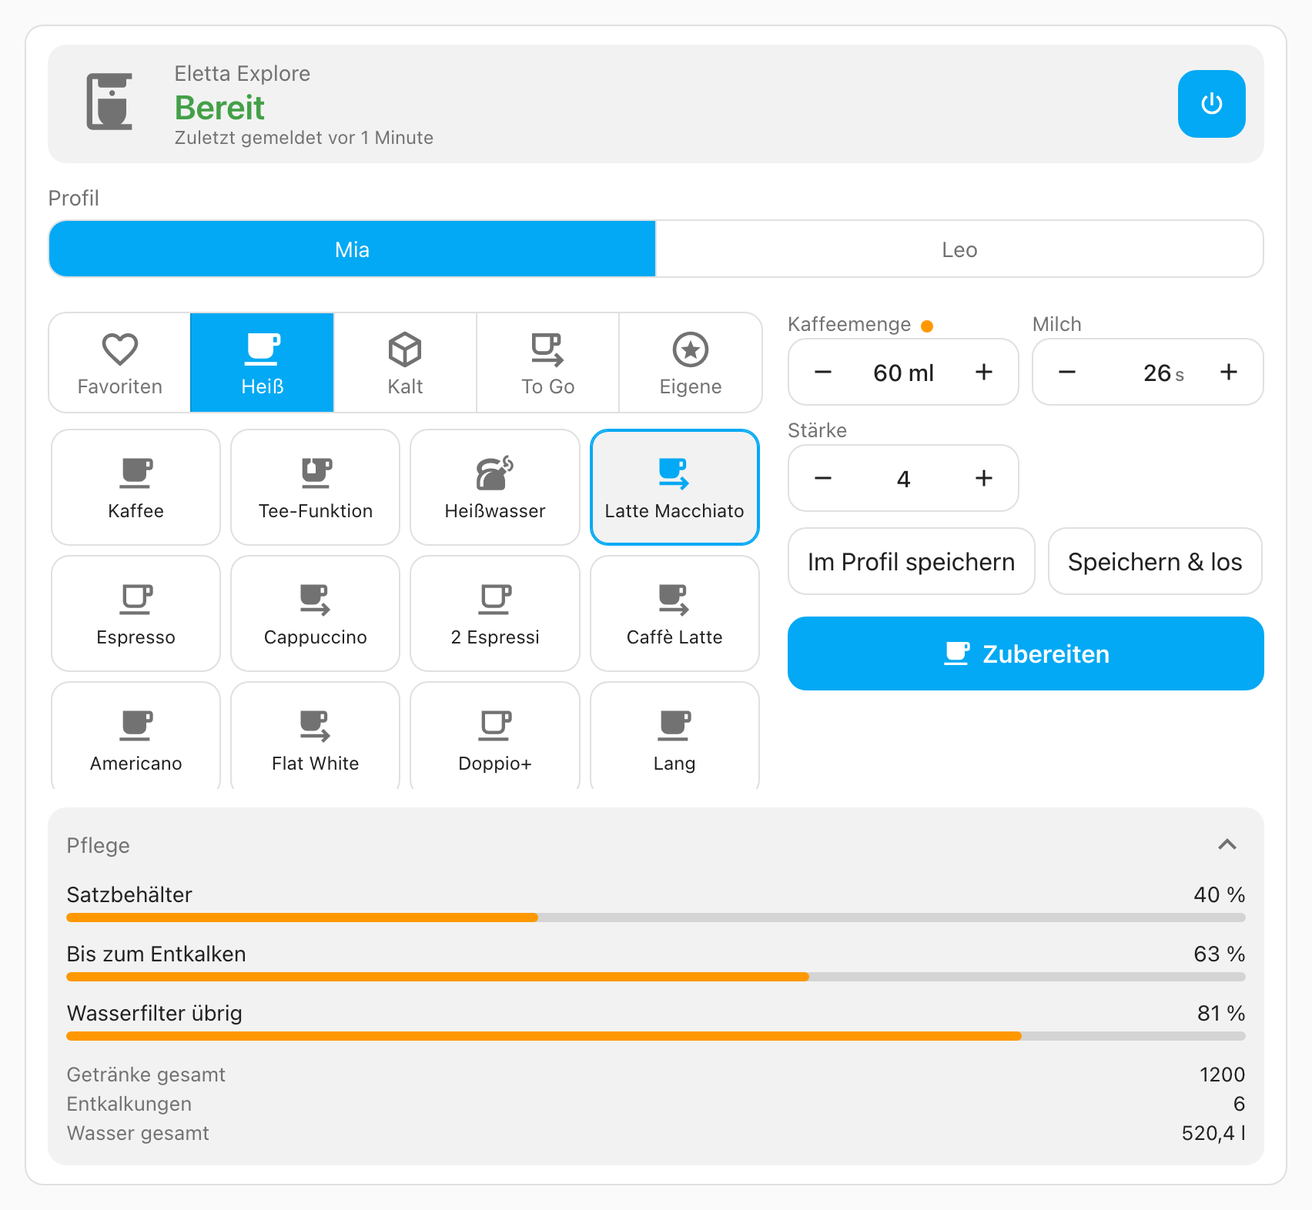
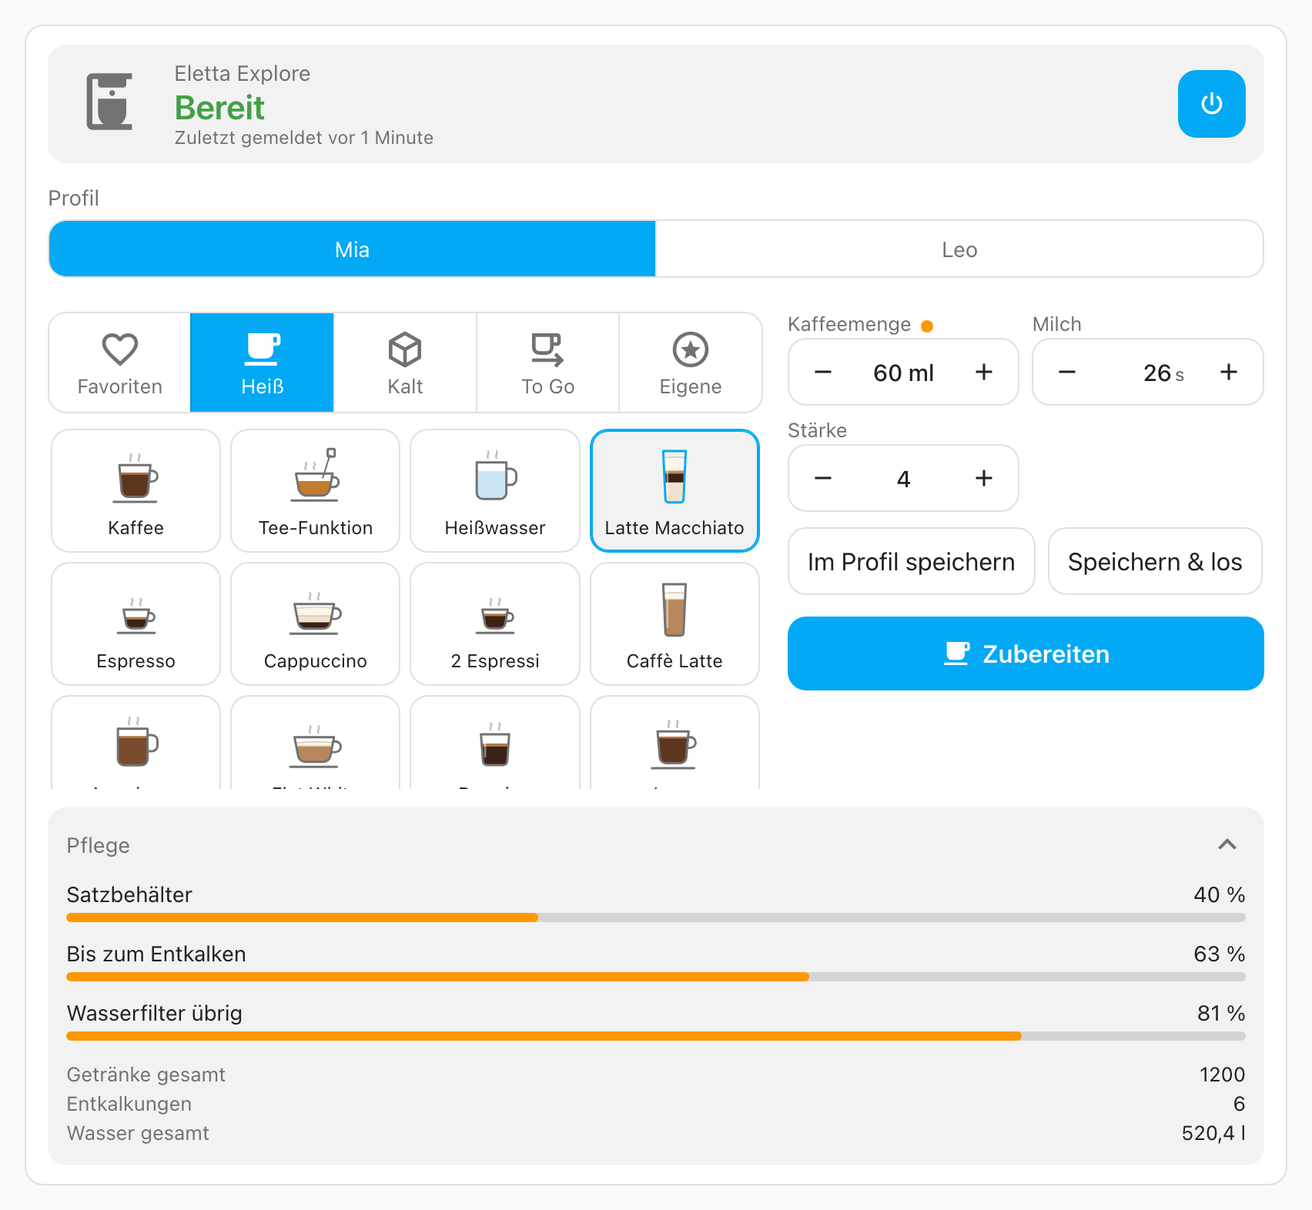
Drink pictures: each drink in its glass or cup with its layers, option drink_icons; version 0.9.0

Changed region(s): [[0.0311, 0.374, 0.591, 0.6546]]

diff --git a/cremalink-card.js b/cremalink-card.js
@@ -4,7 +4,7 @@
  * Colors and fonts come only from the Home Assistant theme.
  */
 
-const CARD_VERSION = "0.8.0";
+const CARD_VERSION = "0.9.0";
 
 const TEXT = {
   en: {
@@ -83,6 +83,7 @@ const TEXT = {
     ed_hide_settings: "Machine settings",
     ed_name: "Title",
     ed_tab_labels: "Show the text on the tabs",
+    ed_drink_icons: "Simple icons instead of the drink pictures",
     ed_show_default_profiles: "Show profiles with factory names",
     ed_device_id: "Machine (only needed with more than one)",
     ed_images: "Pictures (optional)",
@@ -166,6 +167,7 @@ const TEXT = {
     ed_hide_settings: "Maschineneinstellungen",
     ed_name: "Titel",
     ed_tab_labels: "Text auf den Tabs zeigen",
+    ed_drink_icons: "Einfache Symbole statt der Getränkebilder",
     ed_show_default_profiles: "Profile mit Werksnamen zeigen",
     ed_device_id: "Maschine (nur bei mehreren nötig)",
     ed_images: "Bilder (optional)",
@@ -250,6 +252,147 @@ function drinkIcon(key) {
   if (/(cappuccino|latte|macchiato|flat_white|cortado)/.test(k)) return "mdi:coffee-to-go";
   if (/(espresso|doppio|ristretto)/.test(k)) return "mdi:coffee-outline";
   return "mdi:coffee";
+}
+
+// Built-in drink pictures, flat like Home Assistant's icons: the vessel takes the colour
+// of the icon it replaces (currentColor), the drink inside natural colours.
+// Natural colours of the drinks (the only fixed colours of the card).
+const DRINK_CSS = `
+  .dk-dv { fill: none; stroke: currentColor; stroke-width: 1.6; stroke-linejoin: round; stroke-linecap: round; }
+  .dk-dt { fill: none; stroke: currentColor; stroke-width: 1.1; stroke-linecap: round; }
+  .dk-ds { fill: none; stroke: currentColor; stroke-width: 1.3; stroke-linecap: round; opacity: .45; }
+  .dk-dl { fill: currentColor; opacity: .14; }
+  .dk-dh { fill: none; stroke: #fff; stroke-width: 1.4; stroke-linecap: round; opacity: .45; }
+  .dk-esp { fill: #3b2116; } .dk-crema { fill: #b07a45; } .dk-cof { fill: #5e3620; } .dk-ame { fill: #7a4a2c; }
+  .dk-cb { fill: #2f1a10; } .dk-mix { fill: #b8875c; } .dk-milk { fill: #efe3d0; } .dk-choc { fill: #4a2617; }
+  .dk-foam { fill: #fbf6ec; stroke: #d8c7aa; stroke-width: .8; } .dk-cfoam { fill: #f4efe6; stroke: #d6cdbd; stroke-width: .8; }
+  .dk-water { fill: #9fd0ec; opacity: .55; } .dk-tea { fill: #c27c2c; }
+  .dk-ice { fill: #eaf6fd; stroke: #a9d2e8; stroke-width: .8; opacity: .95; }
+`;
+
+// Vessels in a 48 x 48 box: `inside` is the drink's outline (layers are clipped to it),
+// `top`/`bottom` its height, `draw` the vessel itself, `hot` adds steam, `glass` a highlight.
+const DRINK_VESSELS = {
+  espresso: { inside: "M15 24h18l-1.8 10a4 4 0 0 1-4 3.2h-6.4a4 4 0 0 1-4-3.2z", top: 24, bottom: 37.2, hot: [21, 27],
+    draw: `<path class="dk-dv" d="M15 24h18l-1.8 10a4 4 0 0 1-4 3.2h-6.4a4 4 0 0 1-4-3.2z"/><path class="dk-dv" d="M32.6 26.5h1.4a2.8 2.8 0 0 1 0 5.6h-2.2"/><path class="dk-dv" d="M11 40.5h26"/>` },
+  cup: { inside: "M9 20h28l-2.6 13.4a5 5 0 0 1-4.9 4.1h-13a5 5 0 0 1-4.9-4.1z", top: 20, bottom: 37.5, hot: [20, 26],
+    draw: `<path class="dk-dv" d="M9 20h28l-2.6 13.4a5 5 0 0 1-4.9 4.1h-13a5 5 0 0 1-4.9-4.1z"/><path class="dk-dv" d="M36.4 23h1.6a3.8 3.8 0 0 1 0 7.6h-2.9"/><path class="dk-dv" d="M6 41h33"/>` },
+  coffeecup: { inside: "M12 16h22l-1.6 18.5a4.5 4.5 0 0 1-4.5 4h-9.8a4.5 4.5 0 0 1-4.5-4z", top: 16, bottom: 38.5, hot: [20, 26],
+    draw: `<path class="dk-dv" d="M12 16h22l-1.6 18.5a4.5 4.5 0 0 1-4.5 4h-9.8a4.5 4.5 0 0 1-4.5-4z"/><path class="dk-dv" d="M33.6 20h1.6a3.8 3.8 0 0 1 0 7.6h-2.3"/><path class="dk-dv" d="M8 42h30"/>` },
+  mug: { inside: "M11 14h21v21.5a4.5 4.5 0 0 1-4.5 4.5h-12a4.5 4.5 0 0 1-4.5-4.5z", top: 14, bottom: 40, hot: [19, 25],
+    draw: `<path class="dk-dv" d="M11 14h21v21.5a4.5 4.5 0 0 1-4.5 4.5h-12a4.5 4.5 0 0 1-4.5-4.5z"/><path class="dk-dv" d="M32 18.5h3a4 4 0 0 1 4 4v3.5a4 4 0 0 1-4 4h-3"/>` },
+  teacup: { inside: "M10 22h26l-2 11a5.5 5.5 0 0 1-5.4 4.5h-11.2a5.5 5.5 0 0 1-5.4-4.5z", top: 22, bottom: 37.5, hot: [17, 23],
+    draw: `<path class="dk-dv" d="M10 22h26l-2 11a5.5 5.5 0 0 1-5.4 4.5h-11.2a5.5 5.5 0 0 1-5.4-4.5z"/><path class="dk-dv" d="M35.4 24.5h1.4a3.5 3.5 0 0 1 0 7h-2.6"/><path class="dk-dv" d="M7 41h32"/><path class="dk-dt" d="M29 25 L34 9"/><rect class="dk-dv" x="32.5" y="4.5" width="5" height="5.5" rx="1"/>` },
+  glass: { inside: "M16 6h16l-1.6 34.5a2 2 0 0 1-2 1.9h-8.8a2 2 0 0 1-2-1.9z", top: 6, bottom: 42.4, glass: true,
+    draw: `<path class="dk-dv" d="M16 6h16l-1.6 34.5a2 2 0 0 1-2 1.9h-8.8a2 2 0 0 1-2-1.9z"/>` },
+  small: { inside: "M14 18h20l-1.4 19a3 3 0 0 1-3 2.8h-11.2a3 3 0 0 1-3-2.8z", top: 18, bottom: 39.8, glass: true,
+    draw: `<path class="dk-dv" d="M14 18h20l-1.4 19a3 3 0 0 1-3 2.8h-11.2a3 3 0 0 1-3-2.8z"/>` },
+  tumbler: { inside: "M12 10h24l-2.4 29a3 3 0 0 1-3 2.8h-13.2a3 3 0 0 1-3-2.8z", top: 10, bottom: 41.8, glass: true,
+    draw: `<path class="dk-dv" d="M12 10h24l-2.4 29a3 3 0 0 1-3 2.8h-13.2a3 3 0 0 1-3-2.8z"/>` },
+  togo: { inside: "M14 15h20l-2 24.5a2.5 2.5 0 0 1-2.5 2.3h-11a2.5 2.5 0 0 1-2.5-2.3z", top: 15, bottom: 41.8, glass: true, hot: [21, 27], steamY: 9,
+    draw: `<path class="dk-dv" d="M14 15h20l-2 24.5a2.5 2.5 0 0 1-2.5 2.3h-11a2.5 2.5 0 0 1-2.5-2.3z"/><path class="dk-dv" d="M12.5 15h23v-2.2a2 2 0 0 0-2-2h-19a2 2 0 0 0-2 2z"/><path class="dk-dv" d="M17 10.8l1-2.3h12l1 2.3"/>` },
+  togoice: { inside: "M14 15h20l-2 24.5a2.5 2.5 0 0 1-2.5 2.3h-11a2.5 2.5 0 0 1-2.5-2.3z", top: 15, bottom: 41.8, glass: true,
+    draw: `<path class="dk-dv" d="M14 15h20l-2 24.5a2.5 2.5 0 0 1-2.5 2.3h-11a2.5 2.5 0 0 1-2.5-2.3z"/><path class="dk-dv" d="M12.5 15h23a11.5 6 0 0 0-23 0z"/><path class="dk-dv" d="M26 9.5 L29.5 3"/>` },
+  pot: { inside: "M13 15h18l3 22a4 4 0 0 1-4 4.5h-16a4 4 0 0 1-4-4.5z", top: 15, bottom: 41.5, glass: true,
+    draw: `<path class="dk-dv" d="M13 15h18l3 22a4 4 0 0 1-4 4.5h-16a4 4 0 0 1-4-4.5z"/><path class="dk-dv" d="M12 15h20v-3.5a2 2 0 0 0-2-2h-16a2 2 0 0 0-2 2z"/><path class="dk-dv" d="M32.5 18h2.5a3.5 3.5 0 0 1 3.5 3.5v6a3.5 3.5 0 0 1-3.5 3.5h-1.6"/><path class="dk-dv" d="M12 11.5l-3-2"/>` },
+  pitcher: { inside: "M14 16h20l-1.4 21a4 4 0 0 1-4 3.8h-9.2a4 4 0 0 1-4-3.8z", top: 16, bottom: 40.8, hot: [21, 27],
+    draw: `<path class="dk-dv" d="M14 16h20l-1.4 21a4 4 0 0 1-4 3.8h-9.2a4 4 0 0 1-4-3.8z"/><path class="dk-dv" d="M14 16l-3-3"/><path class="dk-dv" d="M33.6 19.5h1.4a3 3 0 0 1 3 3v6a3 3 0 0 1-3 3h-2"/>` },
+};
+
+// Ice cubes for cold drinks (in the vessel's lower two thirds)
+const drinkIce = (v) => {
+  const y = DRINK_VESSELS[v].top + (DRINK_VESSELS[v].bottom - DRINK_VESSELS[v].top) * 0.3;
+  return `<rect class="dk-ice" x="17.5" y="${y}" width="5" height="5" rx="1.2" transform="rotate(-12 20 ${y + 2.5})"/>` +
+    `<rect class="dk-ice" x="25" y="${y + 4.5}" width="5" height="5" rx="1.2" transform="rotate(10 27.5 ${y + 7})"/>` +
+    `<rect class="dk-ice" x="19" y="${y + 9.5}" width="4.6" height="4.6" rx="1.2" transform="rotate(5 21.3 ${y + 11.8})"/>`;
+};
+
+// What each drink is made of, bottom to top (part of the vessel's height), from the
+// Eletta's recipes: coffee / milk / water, froth level and whether the milk goes first.
+const DRINK_ART = {
+  espresso: ["espresso", [["esp", 0.5], ["crema", 0.1]]],
+  double_espresso: ["espresso", [["esp", 0.68], ["crema", 0.1]]],
+  doppio_plus: ["small", [["esp", 0.62], ["crema", 0.08]], { hot: true }],
+  espresso_soul: ["espresso", [["esp", 0.5], ["crema", 0.12]]],
+  coffee: ["coffeecup", [["cof", 0.72], ["crema", 0.05]]],
+  long_coffee: ["coffeecup", [["cof", 0.8], ["crema", 0.04]]],
+  americano: ["mug", [["ame", 0.76], ["crema", 0.04]]],
+  espresso_macchiato: ["espresso", [["esp", 0.42], ["foam", 0.26]]],
+  cappuccino: ["cup", [["esp", 0.28], ["milk", 0.26], ["foam", 0.3]]],
+  cappuccino_plus: ["cup", [["esp", 0.4], ["milk", 0.16], ["foam", 0.26]]],
+  cappuccino_mix: ["cup", [["mix", 0.52], ["foam", 0.3]]],
+  flat_white: ["cup", [["mix", 0.66], ["foam", 0.12]]],
+  cortado: ["small", [["esp", 0.36], ["milk", 0.34], ["foam", 0.06]]],
+  latte_macchiato: ["glass", [["milk", 0.4], ["esp", 0.17], ["mix", 0.06], ["foam", 0.24]]],
+  caffe_latte: ["glass", [["mix", 0.72], ["foam", 0.1]]],
+  hot_milk: ["mug", [["milk", 0.56], ["foam", 0.22]]],
+  hot_water: ["mug", [["water", 0.76]]],
+  tea: ["teacup", [["tea", 0.66]]],
+  coffee_pot: ["pot", [["cof", 0.62]]],
+  steam: ["pitcher", [["milk", 0.42], ["foam", 0.3]]],
+  chocolate: ["cup", [["choc", 0.62], ["foam", 0.14]]],
+  brew_over_ice: ["tumbler", [["cof", 0.62]], { ice: true }],
+  iced_americano: ["tumbler", [["ame", 0.7]], { ice: true }],
+  iced_cappuccino: ["tumbler", [["esp", 0.46], ["cfoam", 0.28]], { ice: true }],
+  iced_latte_macchiato: ["tumbler", [["milk", 0.42], ["esp", 0.18], ["cfoam", 0.16]], { ice: true }],
+  iced_caffe_latte: ["tumbler", [["mix", 0.72]], { ice: true }],
+  iced_cappuccino_mix: ["tumbler", [["mix", 0.54], ["cfoam", 0.22]], { ice: true }],
+  iced_flat_white: ["tumbler", [["mix", 0.66], ["cfoam", 0.09]], { ice: true }],
+  iced_cold_milk: ["tumbler", [["milk", 0.54], ["cfoam", 0.22]], { ice: true }],
+  over_ice_espresso: ["small", [["esp", 0.52]], { ice: true }],
+  cold_brew: ["tumbler", [["cb", 0.66]], { ice: true }],
+  cold_brew_to_mix: ["small", [["cb", 0.56]]],
+  cold_brew_latte: ["tumbler", [["milk", 0.36], ["cb", 0.32]], { ice: true }],
+  cold_brew_cappuccino: ["tumbler", [["mix", 0.5], ["cfoam", 0.22]], { ice: true }],
+  cold_brew_pot: ["pot", [["cb", 0.62]]],
+  mug_americano: ["togo", [["ame", 0.78]]],
+  mug_cappuccino: ["togo", [["esp", 0.28], ["milk", 0.26], ["foam", 0.28]]],
+  mug_latte_macchiato: ["togo", [["milk", 0.4], ["esp", 0.18], ["foam", 0.24]]],
+  mug_caffe_latte: ["togo", [["mix", 0.72], ["foam", 0.1]]],
+  mug_cappuccino_mix: ["togo", [["mix", 0.52], ["foam", 0.3]]],
+  mug_flat_white: ["togo", [["mix", 0.66], ["foam", 0.12]]],
+  mug_hot_milk: ["togo", [["milk", 0.56], ["foam", 0.24]]],
+  mug_over_ice: ["togoice", [["cof", 0.7]], { ice: true }],
+  mug_iced_americano: ["togoice", [["ame", 0.72]], { ice: true }],
+  mug_iced_cappuccino: ["togoice", [["esp", 0.46], ["cfoam", 0.28]], { ice: true }],
+  mug_iced_latte_macchiato: ["togoice", [["milk", 0.42], ["esp", 0.18], ["cfoam", 0.16]], { ice: true }],
+  mug_iced_caffe_latte: ["togoice", [["mix", 0.72]], { ice: true }],
+  mug_iced_cappuccino_mix: ["togoice", [["mix", 0.54], ["cfoam", 0.22]], { ice: true }],
+  mug_iced_flat_white: ["togoice", [["mix", 0.66], ["cfoam", 0.09]], { ice: true }],
+  mug_iced_cold_milk: ["togoice", [["milk", 0.54], ["cfoam", 0.22]], { ice: true }],
+  cold_brew_mug: ["togoice", [["cb", 0.7]], { ice: true }],
+  cold_brew_latte_mug: ["togoice", [["milk", 0.36], ["cb", 0.32]], { ice: true }],
+  cold_brew_cappuccino_mug: ["togoice", [["mix", 0.5], ["cfoam", 0.22]], { ice: true }],
+};
+// Picture numbers of custom recipes that name drinks the machine has under another key
+const DRINK_ALIAS = { cold_milk: "iced_cold_milk", cold_coffee: "brew_over_ice", togo_cappuccino: "mug_cappuccino" };
+
+let drinkUid = 0;
+function drinkSvg(key) {
+  const art = DRINK_ART[DRINK_ALIAS[key] || key];
+  if (!art) return "";
+  const [vessel, layers, opt = {}] = art;
+  const v = DRINK_VESSELS[vessel];
+  const id = `cdk${drinkUid++}`;
+  const h = v.bottom - v.top;
+  let y = v.bottom;
+  let fill = "";
+  for (const [cls, part] of layers) {
+    const lh = h * part;
+    y -= lh;
+    fill += cls === "foam" || cls === "cfoam"
+      ? `<path class="dk-${cls}" d="M0 ${y + lh + 0.4} V${y + 1.6} Q24 ${y - 2.6} 48 ${y + 1.6} V${y + lh + 0.4} Z"/>`
+      : `<rect class="dk-${cls}" x="0" y="${y}" width="48" height="${lh + 0.4}"/>`;
+  }
+  if (opt.ice) fill += drinkIce(vessel);
+  if (v.glass) fill += `<path class="dk-dh" d="M${vessel === "glass" ? 19 : 17} ${v.top + 4} V${v.bottom - 6}"/>`;
+  const hot = (v.hot && !opt.ice && vessel !== "togoice") || opt.hot;
+  const [s1, s2] = v.hot || [21, 27];
+  const sy = v.steamY ?? v.top - 3;
+  const steam = hot && vessel !== "togo"
+    ? `<path class="dk-ds" d="M${s1} ${sy}c-1.6-1.8 1.6-2.8 0-4.8M${s2} ${sy}c-1.6-1.8 1.6-2.8 0-4.8"/>` : "";
+  return `<svg viewBox="0 0 48 48" aria-hidden="true"><defs><clipPath id="${id}"><path d="${v.inside}"/></clipPath></defs>` +
+    `${steam}<g clip-path="url(#${id})">${fill}</g>${v.draw}</svg>`;
 }
 
 // To go drinks are chosen hot or cold on the machine as well: 100-107 and 140-142 are cold.
@@ -376,11 +519,16 @@ class CremalinkCard extends HTMLElement {
       const el = e.target.closest("select[data-act='select']");
       if (el) this._select(el.dataset.entity, el.value);
     });
-    // A picture that does not load (no file for this drink) falls back to its icon.
+    // A picture that does not load (no file for this drink or tab) falls back to the
+    // built-in picture or the icon.
     this.shadowRoot.addEventListener(
       "error",
       (e) => {
         const img = e.target;
+        if (img?.matches?.("img[data-drink]")) {
+          img.outerHTML = this._drinkFallback(img.dataset.drink, img.className);
+          return;
+        }
         if (!img?.matches?.("img[data-icon]")) return;
         const icon = document.createElement("ha-icon");
         icon.setAttribute("icon", img.dataset.icon);
@@ -444,6 +592,7 @@ class CremalinkCard extends HTMLElement {
         { name: "name", selector: { text: {} } },
         { name: "tabs", selector: { select: { multiple: true, mode: "list", options: options(TABS, "tab_") } } },
         { name: "tab_labels", default: true, selector: { boolean: {} } },
+        { name: "drink_icons", default: false, selector: { boolean: {} } },
         { name: "show_default_profiles", default: false, selector: { boolean: {} } },
         { name: "show_ok", default: false, selector: { boolean: {} } },
         { name: "hide_alerts", selector: { entity: { multiple: true, filter: { integration: "cremalink_ha", domain: "binary_sensor" } } } },
@@ -1165,6 +1314,19 @@ class CremalinkCard extends HTMLElement {
     return pattern ? String(pattern).replace("{drink}", key) : null;
   }
 
+  // What a drink is shown with: your own picture (images.drinks), else the card's built-in
+  // picture, else (drink_icons: true, or a drink without one) its icon. `cls` sizes it.
+  _drinkVisual(key, cls) {
+    const picture = this._drinkPicture(key);
+    if (picture) return `<img class="${cls}" src="${picture}" data-drink="${esc(key)}" alt="" loading="lazy">`;
+    return this._drinkFallback(key, cls);
+  }
+
+  _drinkFallback(key, cls) {
+    const art = this._config.drink_icons ? "" : drinkSvg(key);
+    return art ? art.replace("<svg ", `<svg class="${cls}" `) : `<ha-icon class="${cls}" icon="${drinkIcon(key)}"></ha-icon>`;
+  }
+
   _recipes(f) {
     const st = this._state("recipe");
     if (!st) return "";
@@ -1224,12 +1386,7 @@ class CremalinkCard extends HTMLElement {
         const sel = live && (asked || (picking === undefined && o === st.state));
         // a custom recipe is drawn like the drink its picture number stands for
         const key = SYMBOL_DRINK[icons[o]] || o;
-        const picture = this._drinkPicture(key);
-        const visual = asked
-          ? `<ha-icon icon="mdi:loading" class="spin"></ha-icon>`
-          : picture
-            ? `<img class="d-pic" src="${picture}" data-icon="${drinkIcon(key)}" alt="" loading="lazy">`
-            : `<ha-icon icon="${drinkIcon(key)}"></ha-icon>`;
+        const visual = asked ? `<ha-icon icon="mdi:loading" class="spin"></ha-icon>` : this._drinkVisual(key, "d-pic");
         return `<button class="drink ${sel ? "sel" : ""} ${asked ? "working" : ""}" data-act="drink" data-entity="${st.entity_id}" data-value="${esc(o)}"
             aria-pressed="${sel}" aria-busy="${asked}" ${locked ? "disabled" : ""}>
             ${visual}<span class="d-name">${esc(this._hass.formatEntityState(st, o))}</span></button>`;
@@ -1544,6 +1701,10 @@ class CremalinkCard extends HTMLElement {
         .drink ha-icon { --mdc-icon-size: 26px; color: var(--secondary-text-color); }
         .drink.sel ha-icon { color: var(--primary-color); }
         .d-pic { width: 44px; height: 44px; object-fit: contain; }
+        .drink svg.d-pic { color: var(--secondary-text-color); }
+        .drink.sel svg.d-pic { color: var(--primary-color); }
+        .drink ha-icon.d-pic { width: auto; height: auto; }
+        ${DRINK_CSS}
         .d-name { font-size: 12px; line-height: 1.2; overflow-wrap: anywhere; display: -webkit-box;
           -webkit-line-clamp: 2; -webkit-box-orient: vertical; overflow: hidden; }
         .drink:focus-visible { outline: 2px solid var(--primary-color); outline-offset: 2px; }
@@ -2027,8 +2188,10 @@ class CremalinkAdminCard extends CremalinkCard {
         },
         { name: "name", selector: { text: {} } },
         { name: "device_id", selector: { device: { filter: { integration: "cremalink_ha" } } } },
+        { name: "drink_icons", default: false, selector: { boolean: {} } },
       ],
-      computeLabel: (schema) => (schema.name === "hide" ? uiText("ed_hide") : uiText(`ed_${schema.name}_admin`)),
+      computeLabel: (schema) =>
+        ["hide", "drink_icons"].includes(schema.name) ? uiText(`ed_${schema.name}`) : uiText(`ed_${schema.name}_admin`),
     };
   }
 
@@ -2353,10 +2516,7 @@ class CremalinkAdminCard extends CremalinkCard {
       const rows = draft
         .map((o, i) => {
           const key = SYMBOL_DRINK[known.icons[o]] || o;
-          const picture = this._drinkPicture(key);
-          const visual = picture
-            ? `<img class="pic" src="${picture}" alt="" loading="lazy">`
-            : `<ha-icon class="pic" icon="${drinkIcon(key)}"></ha-icon>`;
+          const visual = this._drinkVisual(key, "pic");
           const k = esc(o);
           return `<li class="fav" data-key="${k}">
             <button class="grip" data-grip aria-label="${this._t("fav_grip")}" title="${this._t("fav_grip")}"><ha-icon icon="mdi:drag"></ha-icon></button>
@@ -2410,6 +2570,8 @@ class CremalinkAdminCard extends CremalinkCard {
         .grip:hover, .ib:hover:not(:disabled) { background: var(--divider-color); }
         .num { width: 18px; text-align: right; font-size: 12px; color: var(--secondary-text-color); }
         .pic { width: 32px; height: 32px; object-fit: contain; --mdc-icon-size: 28px; flex: none; }
+        svg.pic { color: var(--secondary-text-color); }
+        ${DRINK_CSS}
         .fname { flex: 1; min-width: 0; overflow: hidden; text-overflow: ellipsis; white-space: nowrap; }
         .ib { border: 0; background: transparent; color: var(--primary-text-color); cursor: pointer; width: 44px; height: 44px;
           border-radius: 8px; display: grid; place-items: center; padding: 0; }

diff --git a/README.md b/README.md
@@ -17,7 +17,7 @@ Lovelace cards for coffee machines set up with the [cremalink-ha](https://github
 
 - **Header:** machine name, status, "last heard x min ago", progress while brewing and a power button.
 - **Warnings:** only what needs attention (water tank, grounds container, drip tray, beans, descaling, filter …); faults of the machine in red and first.
-- **Drinks:** tabs like the machine and the app have them: **Favorites** (of the active profile), **Hot**, **Cold**, **To go** (with a hot / cold choice below the tabs, as on the machine) and **Custom** (the recipes you named yourself), each with its own icon. One tile per drink, in the order of the machine's drink menu. A custom recipe is drawn like the drink whose picture you chose for it on the machine. Tap a tile to select it.
+- **Drinks:** tabs like the machine and the app have them: **Favorites** (of the active profile), **Hot**, **Cold**, **To go** (with a hot / cold choice below the tabs, as on the machine) and **Custom** (the recipes you named yourself), each with its own icon. One tile per drink, in the order of the machine's drink menu, each with a small picture of the drink in its glass or cup. A custom recipe is drawn like the drink whose picture you chose for it on the machine. Tap a tile to select it.
 - **Sliders:** one row for the selected drink (amount, strength, milk, temperature …) with the limits the machine allows. For tea the temperature steps are shown as tea types (white, green, oolong, black). A changed value is marked with a dot and only applies to the next brew; the stored recipe stays untouched.
 - **Brew:** one big button. It is disabled while the machine is asleep, busy or still loading the recipe values, and says why. The coffee pot and the cold brew pot can only be set and started on the machine (like in the Coffee Link app): they stay selectable, but have no sliders and no brew button.
 - **Profile:** buttons for the profiles you set up (profiles that still have their factory name are left out). Folded below: **Care** (grounds container as a fill level, what is left until descaling and of the water filter, as bars, plus beverages, descalings and water in total). The machine settings live in the Machine Manager card.
@@ -87,18 +87,34 @@ The card adapts to the width it gets on the dashboard: on a wide card the drinks
 | `show_ok` | `false` | `alerts` only: stay visible without a warning and say "All good" |
 | `hide_alerts` | – | Warnings never to show (list of the machine's warning entities), in the warnings section, the warnings card and the badge |
 | `tabs` | all | Tabs to show, e.g. `[favorites, hot, custom]` (`favorites`, `hot`, `cold`, `togo`, `custom`); they keep the machine's order |
+| `drink_icons` | `false` | Simple icons instead of the drink pictures (also in the Machine Manager) |
 | `tab_labels` | `true` | Show the text under the tab icons; `false` shows the icons only |
 | `show_default_profiles` | `false` | Also show profiles that still have their factory name ("Explorer 2" …) |
 | `drinks` | all | YAML only: list of drink keys to show, e.g. `[espresso, cappuccino, tea]` |
 | `images.device` | – | URL of a picture of your machine |
 | `images.tabs` | – | URL pattern for the tab pictures, `{tab}` is `favorites`, `hot`, `cold`, `togo` or `custom`, e.g. `/local/coffee/tab_{tab}.webp` |
-| `images.drinks` | – | URL pattern for drink pictures, `{drink}` is the drink key, e.g. `/local/coffee/{drink}.webp` |
+| `images.drinks` | – | Your own drink pictures: URL pattern, `{drink}` is the drink key, e.g. `/local/coffee/{drink}.webp` (see Pictures) |
 
 The tabs use the drink ids and the favorites from the integration where it provides them (`option_beverages` and `favorite_beverages` attributes of the recipe select) and the drink's name otherwise.
 
 ### Pictures
 
-Without pictures the tiles use icons. To use your own pictures, put them into your `www` folder (for example `config/www/coffee/espresso.webp`) and set `images.drinks: /local/coffee/{drink}.webp`. The file name is the drink key shown in the entity's options (a custom recipe uses the file of the drink it is shown as, e.g. `latte_macchiato`); drinks without a picture keep their icon (`espresso`, `cappuccino`, `flat_white` …).
+The drink tiles show the card's own pictures: each drink in its glass or cup with its typical layers (espresso, milk, foam, ice …). The vessel takes your theme's icon color (the primary color once selected), the drink inside natural colors, so they fit light and dark themes alike. `drink_icons: true` switches to simple icons.
+
+**Your own pictures** replace them drink by drink:
+
+1. Put one picture per drink into your `www` folder, e.g. `config/www/coffee/latte_macchiato.webp`. Square pictures with a transparent background, about 96 × 96 px, work best (PNG, WebP or SVG).
+2. Name each file after the drink key: the option of the machine's recipe select, as Home Assistant lists it in the entity's attributes (`espresso`, `latte_macchiato`, `mug_flat_white` …). A custom recipe uses the key of the drink its picture stands for (a recipe shown as a latte macchiato on the machine uses `latte_macchiato`).
+3. Point the card at the folder, with `{drink}` where the key goes:
+
+```yaml
+images:
+  drinks: /local/coffee/{drink}.webp
+  device: /local/coffee/machine.webp      # optional: your machine in the header
+  tabs: /local/coffee/tab_{tab}.webp      # optional: favorites, hot, cold, togo, custom
+```
+
+A drink without a file keeps the built-in picture, so you can replace just a few. Files in `www` are cached by the browser; after changing a picture, reload the page.
 
 ### Saving changed values
 
